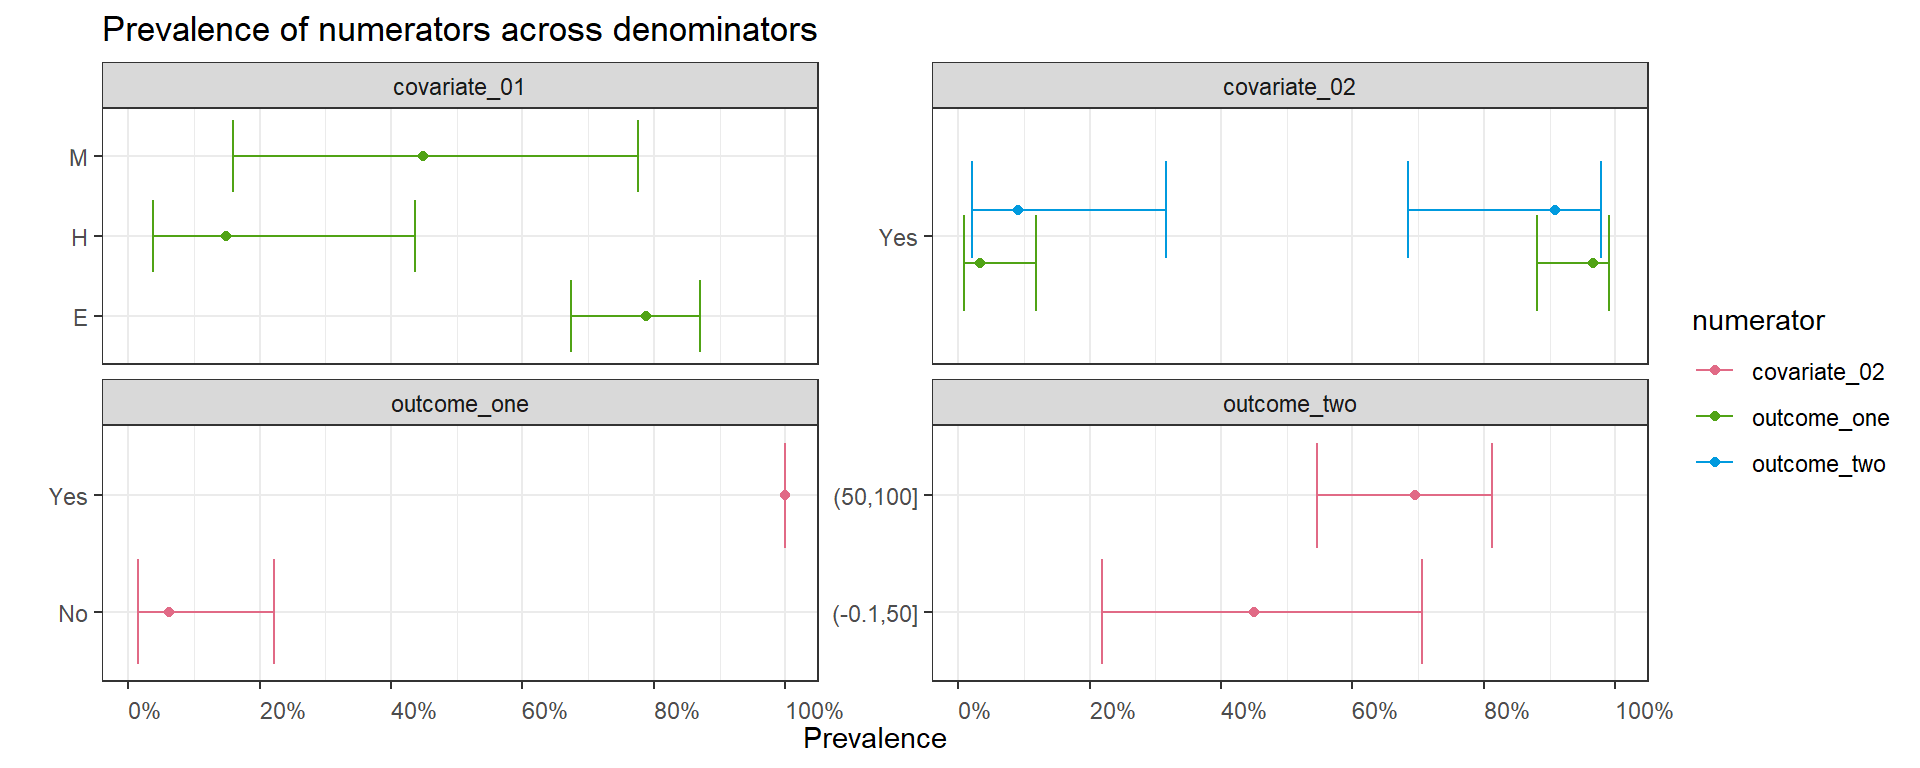
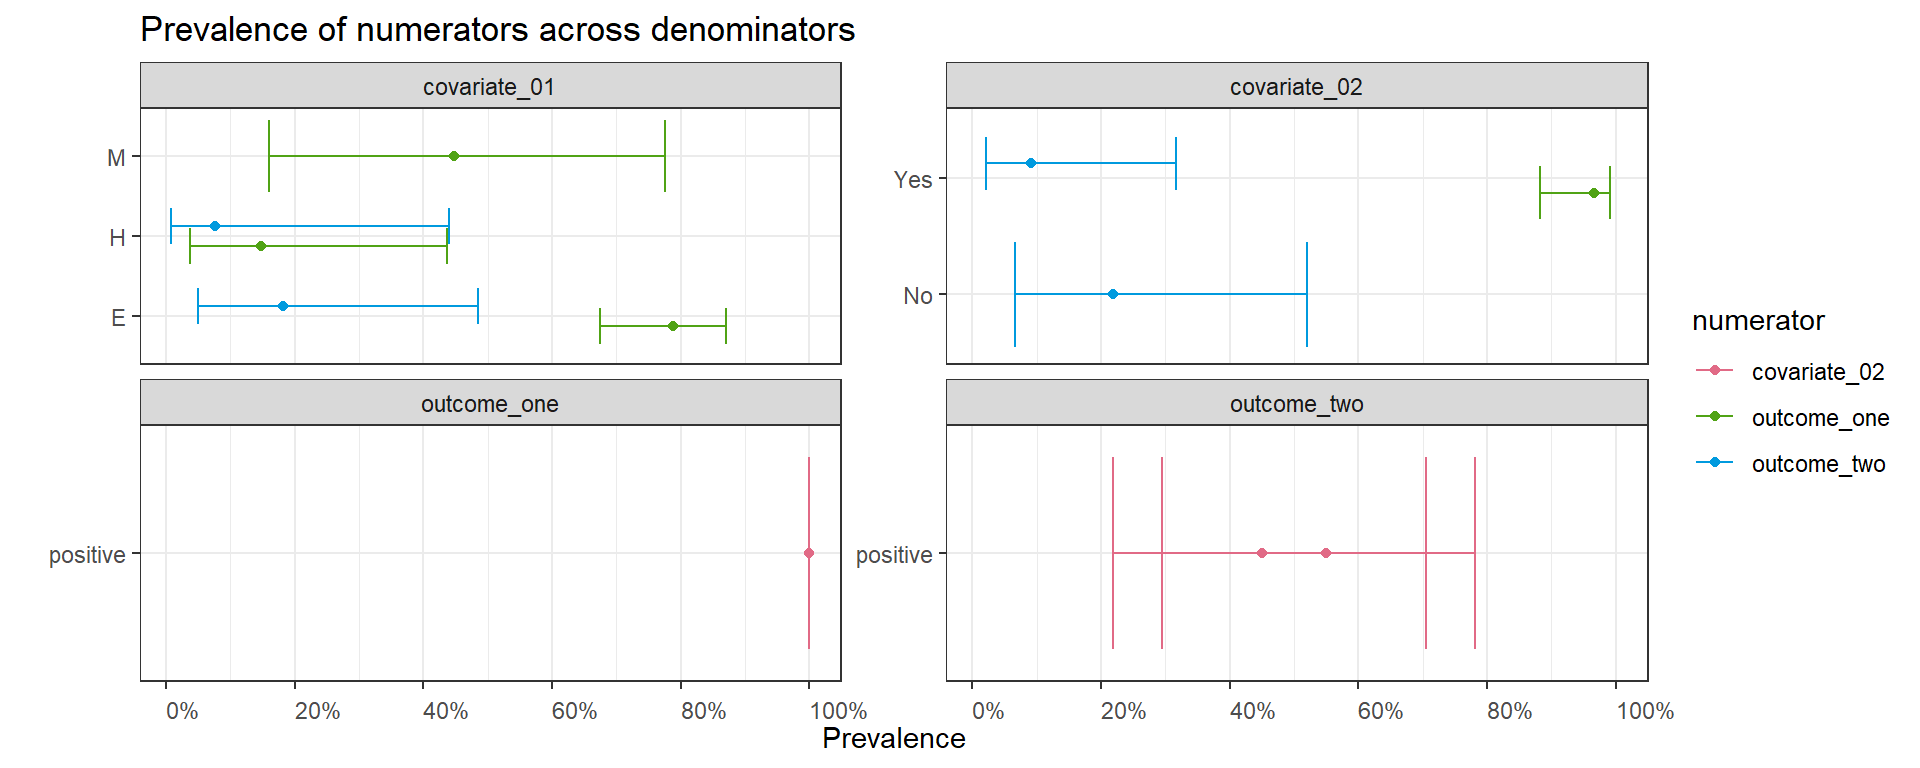
recode factor of outcomes

diff --git a/docs/articles/howto-reprex.html b/docs/articles/howto-reprex.html
@@ -165,7 +165,12 @@
 <a class="sourceLine" id="cb2-12" title="12">         <span class="dt">primary_sampling_unit =</span> dnum,</a>
 <a class="sourceLine" id="cb2-13" title="13">         <span class="dt">secondary_sampling_unit =</span> snum,</a>
 <a class="sourceLine" id="cb2-14" title="14">         <span class="co"># strata = census_tracts, (activate if available)</span></a>
-<a class="sourceLine" id="cb2-15" title="15">         <span class="dt">sampling_weights =</span> pw)</a></code></pre></div>
+<a class="sourceLine" id="cb2-15" title="15">         <span class="dt">sampling_weights =</span> pw) <span class="op">%&gt;%</span><span class="st"> </span></a>
+<a class="sourceLine" id="cb2-16" title="16"><span class="st">  </span><span class="co"># recode factor leves to replicate serology results</span></a>
+<a class="sourceLine" id="cb2-17" title="17"><span class="st">  </span><span class="kw">mutate</span>(<span class="dt">outcome_one=</span><span class="kw">fct_recode</span>(outcome_one,</a>
+<a class="sourceLine" id="cb2-18" title="18">                                <span class="st">"negative"</span>=<span class="st">"No"</span>,<span class="st">"positive"</span>=<span class="st">"Yes"</span>)) <span class="op">%&gt;%</span><span class="st"> </span></a>
+<a class="sourceLine" id="cb2-19" title="19"><span class="st">  </span><span class="kw">mutate</span>(<span class="dt">outcome_two=</span><span class="kw">fct_recode</span>(outcome_two,</a>
+<a class="sourceLine" id="cb2-20" title="20">                                <span class="st">"negative"</span>=<span class="st">"(50,100]"</span>,<span class="st">"positive"</span>=<span class="st">"(-0.1,50]"</span>))</a></code></pre></div>
 </div>
 <div id="i-2--identify-sets-numerators-and-denominators" class="section level2">
 <h2 class="hasAnchor">
@@ -236,12 +241,12 @@
 <a class="sourceLine" id="cb5-6" title="6"><span class="co">#&gt; # A tibble: 6 x 12</span></a>
 <a class="sourceLine" id="cb5-7" title="7"><span class="co">#&gt;   denominator denominator_lev~ numerator numerator_level  prop prop_se</span></a>
 <a class="sourceLine" id="cb5-8" title="8"><span class="co">#&gt;   &lt;chr&gt;       &lt;fct&gt;            &lt;chr&gt;     &lt;fct&gt;           &lt;dbl&gt;   &lt;dbl&gt;</span></a>
-<a class="sourceLine" id="cb5-9" title="9"><span class="co">#&gt; 1 covariate_~ E                outcome_~ No              0.211  0.0482</span></a>
-<a class="sourceLine" id="cb5-10" title="10"><span class="co">#&gt; 2 covariate_~ E                outcome_~ Yes             0.789  0.0482</span></a>
-<a class="sourceLine" id="cb5-11" title="11"><span class="co">#&gt; 3 covariate_~ H                outcome_~ No              0.852  0.0872</span></a>
-<a class="sourceLine" id="cb5-12" title="12"><span class="co">#&gt; 4 covariate_~ H                outcome_~ Yes             0.148  0.0872</span></a>
-<a class="sourceLine" id="cb5-13" title="13"><span class="co">#&gt; 5 covariate_~ M                outcome_~ No              0.552  0.172 </span></a>
-<a class="sourceLine" id="cb5-14" title="14"><span class="co">#&gt; 6 covariate_~ M                outcome_~ Yes             0.448  0.172 </span></a>
+<a class="sourceLine" id="cb5-9" title="9"><span class="co">#&gt; 1 covariate_~ E                outcome_~ negative        0.211  0.0482</span></a>
+<a class="sourceLine" id="cb5-10" title="10"><span class="co">#&gt; 2 covariate_~ E                outcome_~ positive        0.789  0.0482</span></a>
+<a class="sourceLine" id="cb5-11" title="11"><span class="co">#&gt; 3 covariate_~ H                outcome_~ negative        0.852  0.0872</span></a>
+<a class="sourceLine" id="cb5-12" title="12"><span class="co">#&gt; 4 covariate_~ H                outcome_~ positive        0.148  0.0872</span></a>
+<a class="sourceLine" id="cb5-13" title="13"><span class="co">#&gt; 5 covariate_~ M                outcome_~ negative        0.552  0.172 </span></a>
+<a class="sourceLine" id="cb5-14" title="14"><span class="co">#&gt; 6 covariate_~ M                outcome_~ positive        0.448  0.172 </span></a>
 <a class="sourceLine" id="cb5-15" title="15"><span class="co">#&gt; # ... with 6 more variables: total &lt;dbl&gt;, total_se &lt;dbl&gt;, total_den &lt;dbl&gt;,</span></a>
 <a class="sourceLine" id="cb5-16" title="16"><span class="co">#&gt; #   raw_num &lt;int&gt;, raw_den &lt;int&gt;, raw_prop &lt;dbl&gt;</span></a>
 <a class="sourceLine" id="cb5-17" title="17"></a>
@@ -253,12 +258,12 @@
 <a class="sourceLine" id="cb5-23" title="23"><span class="co">#&gt; # A tibble: 6 x 12</span></a>
 <a class="sourceLine" id="cb5-24" title="24"><span class="co">#&gt;   denominator denominator_lev~ numerator numerator_level   prop prop_se</span></a>
 <a class="sourceLine" id="cb5-25" title="25"><span class="co">#&gt;   &lt;chr&gt;       &lt;fct&gt;            &lt;chr&gt;     &lt;fct&gt;            &lt;dbl&gt;   &lt;dbl&gt;</span></a>
-<a class="sourceLine" id="cb5-26" title="26"><span class="co">#&gt; 1 outcome_one No               covariat~ E               0.400   0.102 </span></a>
-<a class="sourceLine" id="cb5-27" title="27"><span class="co">#&gt; 2 outcome_one No               covariat~ H               0.318   0.131 </span></a>
-<a class="sourceLine" id="cb5-28" title="28"><span class="co">#&gt; 3 outcome_one No               covariat~ M               0.283   0.0783</span></a>
-<a class="sourceLine" id="cb5-29" title="29"><span class="co">#&gt; 4 outcome_one Yes              covariat~ E               0.840   0.0498</span></a>
-<a class="sourceLine" id="cb5-30" title="30"><span class="co">#&gt; 5 outcome_one Yes              covariat~ H               0.0311  0.0165</span></a>
-<a class="sourceLine" id="cb5-31" title="31"><span class="co">#&gt; 6 outcome_one Yes              covariat~ M               0.129   0.0435</span></a>
+<a class="sourceLine" id="cb5-26" title="26"><span class="co">#&gt; 1 outcome_one negative         covariat~ E               0.400   0.102 </span></a>
+<a class="sourceLine" id="cb5-27" title="27"><span class="co">#&gt; 2 outcome_one negative         covariat~ H               0.318   0.131 </span></a>
+<a class="sourceLine" id="cb5-28" title="28"><span class="co">#&gt; 3 outcome_one negative         covariat~ M               0.283   0.0783</span></a>
+<a class="sourceLine" id="cb5-29" title="29"><span class="co">#&gt; 4 outcome_one positive         covariat~ E               0.840   0.0498</span></a>
+<a class="sourceLine" id="cb5-30" title="30"><span class="co">#&gt; 5 outcome_one positive         covariat~ H               0.0311  0.0165</span></a>
+<a class="sourceLine" id="cb5-31" title="31"><span class="co">#&gt; 6 outcome_one positive         covariat~ M               0.129   0.0435</span></a>
 <a class="sourceLine" id="cb5-32" title="32"><span class="co">#&gt; # ... with 6 more variables: total &lt;dbl&gt;, total_se &lt;dbl&gt;, total_den &lt;dbl&gt;,</span></a>
 <a class="sourceLine" id="cb5-33" title="33"><span class="co">#&gt; #   raw_num &lt;int&gt;, raw_den &lt;int&gt;, raw_prop &lt;dbl&gt;</span></a></code></pre></div>
 </div>
@@ -311,16 +316,16 @@
 <a class="sourceLine" id="cb6-40" title="40"><span class="co">#&gt; # A tibble: 25 x 23</span></a>
 <a class="sourceLine" id="cb6-41" title="41"><span class="co">#&gt;    denominator denominator_lev~ numerator numerator_level   prop prop_low</span></a>
 <a class="sourceLine" id="cb6-42" title="42"><span class="co">#&gt;    &lt;chr&gt;       &lt;fct&gt;            &lt;chr&gt;     &lt;fct&gt;            &lt;dbl&gt;    &lt;dbl&gt;</span></a>
-<a class="sourceLine" id="cb6-43" title="43"><span class="co">#&gt;  1 covariate_~ E                outcome_~ No              0.211   0.130  </span></a>
-<a class="sourceLine" id="cb6-44" title="44"><span class="co">#&gt;  2 covariate_~ E                outcome_~ Yes             0.789   0.675  </span></a>
-<a class="sourceLine" id="cb6-45" title="45"><span class="co">#&gt;  3 covariate_~ H                outcome_~ No              0.852   0.564  </span></a>
-<a class="sourceLine" id="cb6-46" title="46"><span class="co">#&gt;  4 covariate_~ H                outcome_~ Yes             0.148   0.0377 </span></a>
-<a class="sourceLine" id="cb6-47" title="47"><span class="co">#&gt;  5 covariate_~ M                outcome_~ No              0.552   0.224  </span></a>
-<a class="sourceLine" id="cb6-48" title="48"><span class="co">#&gt;  6 covariate_~ M                outcome_~ Yes             0.448   0.160  </span></a>
-<a class="sourceLine" id="cb6-49" title="49"><span class="co">#&gt;  7 covariate_~ E                outcome_~ (-0.1,50]       0.182   0.0499 </span></a>
-<a class="sourceLine" id="cb6-50" title="50"><span class="co">#&gt;  8 covariate_~ E                outcome_~ (50,100]        0.818   0.515  </span></a>
-<a class="sourceLine" id="cb6-51" title="51"><span class="co">#&gt;  9 covariate_~ H                outcome_~ (-0.1,50]       0.0769  0.00876</span></a>
-<a class="sourceLine" id="cb6-52" title="52"><span class="co">#&gt; 10 covariate_~ H                outcome_~ (50,100]        0.923   0.560  </span></a>
+<a class="sourceLine" id="cb6-43" title="43"><span class="co">#&gt;  1 covariate_~ E                outcome_~ negative        0.211   0.130  </span></a>
+<a class="sourceLine" id="cb6-44" title="44"><span class="co">#&gt;  2 covariate_~ E                outcome_~ positive        0.789   0.675  </span></a>
+<a class="sourceLine" id="cb6-45" title="45"><span class="co">#&gt;  3 covariate_~ H                outcome_~ negative        0.852   0.564  </span></a>
+<a class="sourceLine" id="cb6-46" title="46"><span class="co">#&gt;  4 covariate_~ H                outcome_~ positive        0.148   0.0377 </span></a>
+<a class="sourceLine" id="cb6-47" title="47"><span class="co">#&gt;  5 covariate_~ M                outcome_~ negative        0.552   0.224  </span></a>
+<a class="sourceLine" id="cb6-48" title="48"><span class="co">#&gt;  6 covariate_~ M                outcome_~ positive        0.448   0.160  </span></a>
+<a class="sourceLine" id="cb6-49" title="49"><span class="co">#&gt;  7 covariate_~ E                outcome_~ positive        0.182   0.0499 </span></a>
+<a class="sourceLine" id="cb6-50" title="50"><span class="co">#&gt;  8 covariate_~ E                outcome_~ negative        0.818   0.515  </span></a>
+<a class="sourceLine" id="cb6-51" title="51"><span class="co">#&gt;  9 covariate_~ H                outcome_~ positive        0.0769  0.00876</span></a>
+<a class="sourceLine" id="cb6-52" title="52"><span class="co">#&gt; 10 covariate_~ H                outcome_~ negative        0.923   0.560  </span></a>
 <a class="sourceLine" id="cb6-53" title="53"><span class="co">#&gt; # ... with 15 more rows, and 17 more variables: prop_upp &lt;dbl&gt;,</span></a>
 <a class="sourceLine" id="cb6-54" title="54"><span class="co">#&gt; #   prop_cv &lt;dbl&gt;, prop_se &lt;dbl&gt;, total &lt;dbl&gt;, total_low &lt;dbl&gt;,</span></a>
 <a class="sourceLine" id="cb6-55" title="55"><span class="co">#&gt; #   total_upp &lt;dbl&gt;, total_cv &lt;dbl&gt;, total_se &lt;dbl&gt;, total_deff &lt;dbl&gt;,</span></a>
@@ -353,7 +358,7 @@
 <a class="sourceLine" id="cb7-7" title="7"><span class="st">  </span><span class="co"># only serological results</span></a>
 <a class="sourceLine" id="cb7-8" title="8"><span class="st">  </span><span class="kw"><a href="https://rdrr.io/r/stats/filter.html">filter</a></span>(numerator<span class="op">==</span><span class="st">"outcome_one"</span>) <span class="op">%&gt;%</span><span class="st"> </span></a>
 <a class="sourceLine" id="cb7-9" title="9"><span class="st">  </span><span class="co"># only positives</span></a>
-<a class="sourceLine" id="cb7-10" title="10"><span class="st">  </span><span class="kw"><a href="https://rdrr.io/r/stats/filter.html">filter</a></span>(numerator_level<span class="op">==</span><span class="st">"Yes"</span>) <span class="op">%&gt;%</span><span class="st"> </span></a>
+<a class="sourceLine" id="cb7-10" title="10"><span class="st">  </span><span class="kw"><a href="https://rdrr.io/r/stats/filter.html">filter</a></span>(numerator_level<span class="op">==</span><span class="st">"positive"</span>) <span class="op">%&gt;%</span><span class="st"> </span></a>
 <a class="sourceLine" id="cb7-11" title="11"><span class="st">  </span><span class="co"># round numbers are required</span></a>
 <a class="sourceLine" id="cb7-12" title="12"><span class="st">  </span><span class="kw">mutate_at</span>(<span class="dt">.vars =</span> <span class="kw">vars</span>(total,total_den,</a>
 <a class="sourceLine" id="cb7-13" title="13">                         total_low,total_den_low,</a>
@@ -450,7 +455,7 @@
 <a class="sourceLine" id="cb8-67" title="67">}</a>
 <a class="sourceLine" id="cb8-68" title="68"></a>
 <a class="sourceLine" id="cb8-69" title="69"><span class="kw">toc</span>()</a>
-<a class="sourceLine" id="cb8-70" title="70"><span class="co">#&gt; 261.16 sec elapsed</span></a>
+<a class="sourceLine" id="cb8-70" title="70"><span class="co">#&gt; 367.84 sec elapsed</span></a>
 <a class="sourceLine" id="cb8-71" title="71"></a>
 <a class="sourceLine" id="cb8-72" title="72">outcome_<span class="dv">01</span>_adj &lt;-<span class="st"> </span>out  <span class="op">%&gt;%</span><span class="st"> </span></a>
 <a class="sourceLine" id="cb8-73" title="73"><span class="st">  </span><span class="kw">mutate</span>(<span class="dt">rowname=</span><span class="kw"><a href="https://rdrr.io/r/base/numeric.html">as.numeric</a></span>(rowname)) <span class="op">%&gt;%</span><span class="st"> </span></a>
@@ -470,7 +475,7 @@
 <a class="sourceLine" id="cb9-3" title="3"><span class="st">  </span><span class="co"># start from original dataset</span></a>
 <a class="sourceLine" id="cb9-4" title="4"><span class="st">  </span>outcome_<span class="dv">01</span>_pre <span class="op">%&gt;%</span><span class="st"> </span></a>
 <a class="sourceLine" id="cb9-5" title="5"><span class="st">  </span><span class="co"># only positives</span></a>
-<a class="sourceLine" id="cb9-6" title="6"><span class="st">  </span><span class="kw"><a href="https://rdrr.io/r/stats/filter.html">filter</a></span>(numerator_level<span class="op">==</span><span class="st">"Yes"</span><span class="op">|</span>denominator_level<span class="op">==</span><span class="st">"Yes"</span>) <span class="op">%&gt;%</span><span class="st"> </span></a>
+<a class="sourceLine" id="cb9-6" title="6"><span class="st">  </span><span class="kw"><a href="https://rdrr.io/r/stats/filter.html">filter</a></span>(numerator_level<span class="op">==</span><span class="st">"positive"</span><span class="op">|</span>denominator_level<span class="op">==</span><span class="st">"positive"</span>) <span class="op">%&gt;%</span><span class="st"> </span></a>
 <a class="sourceLine" id="cb9-7" title="7"><span class="st">  </span><span class="co"># left join with db with test performance update</span></a>
 <a class="sourceLine" id="cb9-8" title="8"><span class="st">  </span><span class="kw">left_join</span>(outcome_<span class="dv">01</span>_adj) <span class="op">%&gt;%</span><span class="st"> </span></a>
 <a class="sourceLine" id="cb9-9" title="9"><span class="st">  </span><span class="co"># naniar::miss_var_summary() %&gt;% </span></a>
@@ -524,77 +529,77 @@
 <td align="left">covariate_01</td>
 <td align="left">E</td>
 <td align="left">outcome_one</td>
-<td align="left">Yes</td>
+<td align="left">positive</td>
 <td align="left">75.9% (65.3 - 84.6)</td>
 <td align="left">78.9% ( 67.5 - 87)</td>
-<td align="left">83.089% (65.83 - 95.5)</td>
+<td align="left">83.157% (65.90 - 95.5)</td>
 </tr>
 <tr class="even">
 <td align="left">covariate_01</td>
 <td align="left">H</td>
 <td align="left">outcome_one</td>
-<td align="left">Yes</td>
+<td align="left">positive</td>
 <td align="left">25.0% ( 8.7 - 49.1)</td>
 <td align="left">14.8% ( 3.8 - 44)</td>
-<td align="left">0.421% ( 0.28 - 29.7)</td>
+<td align="left">0.421% ( 0.28 - 29.9)</td>
 </tr>
 <tr class="odd">
 <td align="left">covariate_01</td>
 <td align="left">M</td>
 <td align="left">outcome_one</td>
-<td align="left">Yes</td>
+<td align="left">positive</td>
 <td align="left">65.2% (42.7 - 83.6)</td>
 <td align="left">44.8% ( 16.0 - 78)</td>
-<td align="left">31.534% ( 0.41 - 81.1)</td>
+<td align="left">31.544% ( 0.40 - 81.1)</td>
+</tr>
+<tr class="even">
+<td align="left">covariate_01</td>
+<td align="left">E</td>
+<td align="left">outcome_two</td>
+<td align="left">positive</td>
+<td align="left">6.0% ( 2.0 - 13.5)</td>
+<td align="left">18.2% ( 5.0 - 49)</td>
+<td align="left">NA</td>
+</tr>
+<tr class="odd">
+<td align="left">covariate_01</td>
+<td align="left">H</td>
+<td align="left">outcome_two</td>
+<td align="left">positive</td>
+<td align="left">5.0% ( 0.1 - 24.9)</td>
+<td align="left">7.7% ( 0.9 - 44)</td>
+<td align="left">NA</td>
 </tr>
 <tr class="even">
 <td align="left">covariate_02</td>
 <td align="left">Yes</td>
 <td align="left">outcome_one</td>
-<td align="left">No</td>
-<td align="left">6.7% ( 2.5 - 14.1)</td>
-<td align="left">3.3% ( 0.9 - 12)</td>
-<td align="left">NA</td>
+<td align="left">positive</td>
+<td align="left">93.3% (85.9 - 97.5)</td>
+<td align="left">96.7% ( 88.2 - 99)</td>
+<td align="left">99.900% (97.02 - 100.0)</td>
 </tr>
 <tr class="odd">
 <td align="left">covariate_02</td>
-<td align="left">Yes</td>
-<td align="left">outcome_one</td>
-<td align="left">Yes</td>
-<td align="left">93.3% (85.9 - 97.5)</td>
-<td align="left">96.7% ( 88.2 - 99)</td>
-<td align="left">99.902% (97.00 - 100.0)</td>
+<td align="left">No</td>
+<td align="left">outcome_two</td>
+<td align="left">positive</td>
+<td align="left">8.1% ( 1.7 - 21.9)</td>
+<td align="left">21.8% ( 6.7 - 52)</td>
+<td align="left">NA</td>
 </tr>
 <tr class="even">
 <td align="left">covariate_02</td>
 <td align="left">Yes</td>
 <td align="left">outcome_two</td>
-<td align="left">(-0.1,50]</td>
+<td align="left">positive</td>
 <td align="left">3.4% ( 0.7 - 9.5)</td>
 <td align="left">9.1% ( 2.1 - 32)</td>
 <td align="left">NA</td>
 </tr>
 <tr class="odd">
-<td align="left">covariate_02</td>
-<td align="left">Yes</td>
-<td align="left">outcome_two</td>
-<td align="left">(50,100]</td>
-<td align="left">96.6% (90.5 - 99.3)</td>
-<td align="left">90.9% ( 68.4 - 98)</td>
-<td align="left">NA</td>
-</tr>
-<tr class="even">
 <td align="left">outcome_one</td>
-<td align="left">No</td>
-<td align="left">covariate_02</td>
-<td align="left">Yes</td>
-<td align="left">14.0% ( 5.3 - 27.9)</td>
-<td align="left">6.1% ( 1.5 - 22)</td>
-<td align="left">NA</td>
-</tr>
-<tr class="odd">
-<td align="left">outcome_one</td>
-<td align="left">Yes</td>
+<td align="left">positive</td>
 <td align="left">covariate_02</td>
 <td align="left">Yes</td>
 <td align="left">100.0% (95.7 - 100.0)</td>
@@ -603,20 +608,20 @@
 </tr>
 <tr class="even">
 <td align="left">outcome_two</td>
-<td align="left">(-0.1,50]</td>
+<td align="left">positive</td>
 <td align="left">covariate_02</td>
-<td align="left">Yes</td>
+<td align="left">No</td>
 <td align="left">50.0% (11.8 - 88.2)</td>
-<td align="left">45.1% ( 21.9 - 71)</td>
+<td align="left">54.9% ( 29.4 - 78)</td>
 <td align="left">NA</td>
 </tr>
 <tr class="odd">
 <td align="left">outcome_two</td>
-<td align="left">(50,100]</td>
+<td align="left">positive</td>
 <td align="left">covariate_02</td>
 <td align="left">Yes</td>
-<td align="left">71.7% (62.7 - 79.5)</td>
-<td align="left">69.5% ( 54.6 - 81)</td>
+<td align="left">50.0% (11.8 - 88.2)</td>
+<td align="left">45.1% ( 21.9 - 71)</td>
 <td align="left">NA</td>
 </tr>
 </tbody>
